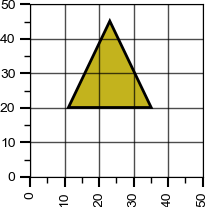
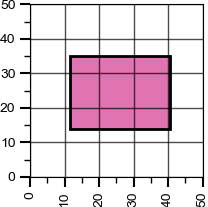
add shape rotation

Changed region(s): [[0.3173, 0.087, 0.8365, 0.6377]]

diff --git a/shape_generator.py b/shape_generator.py
@@ -5,14 +5,15 @@ import random
 import math
 import os
 
-def generate_shape_plot(filename="shape.png"):
+def generate_shape_plot(filename="shape.png", rotate=False):
     """
     Generates an image with a single randomly colored and sized shape (square, rectangle, circle, or triangle)
     on a 50x50 grid. Saves the image and returns the image path and the area of the shape.
-    Shapes are basic (e.g., no rotation for triangles).
+    Shapes can be optionally rotated when rotate=True.
 
     Args:
         filename (str, optional): Name of the output file. Defaults to "shape.png".
+        rotate (bool, optional): Whether to apply random rotation to shapes. Defaults to False.
     """
     # Ensure file exists
     output_dir = os.path.dirname(filename)
@@ -62,10 +63,30 @@ def generate_shape_plot(filename="shape.png"):
 
     if chosen_shape == 'square':
         side = random.uniform(min_shape_dim, max_shape_dim)
-        x = random.uniform(min_coord, max_coord - side)
-        y = random.uniform(min_coord, max_coord - side)
-        square = patches.Rectangle((x, y), side, side, facecolor=color, edgecolor='black', linewidth=2)
-        ax.add_patch(square)
+        if rotate:
+            diagonal = side * math.sqrt(2)
+            safe_margin = diagonal / 2
+            center_x = random.uniform(min_coord + safe_margin, max_coord - safe_margin)
+            center_y = random.uniform(min_coord + safe_margin, max_coord - safe_margin)
+            rotation_angle = random.uniform(-45, 45)
+            # Define corners relative to center
+            half = side / 2
+            corners = np.array([
+                [-half, -half],
+                [half, -half],
+                [half, half],
+                [-half, half]
+            ])
+            theta = np.radians(rotation_angle)
+            rot_matrix = np.array([[np.cos(theta), -np.sin(theta)], [np.sin(theta), np.cos(theta)]])
+            rotated_corners = np.dot(corners, rot_matrix) + np.array([center_x, center_y])
+            square_patch = patches.Polygon(rotated_corners, closed=True, facecolor=color, edgecolor='black', linewidth=2)
+            ax.add_patch(square_patch)
+        else:
+            x = random.uniform(min_coord, max_coord - side)
+            y = random.uniform(min_coord, max_coord - side)
+            square = patches.Rectangle((x, y), side, side, facecolor=color, edgecolor='black', linewidth=2)
+            ax.add_patch(square)
         area = side * side
 
     elif chosen_shape == 'rectangle':
@@ -73,10 +94,31 @@ def generate_shape_plot(filename="shape.png"):
         height = random.uniform(min_shape_dim, max_shape_dim)
         while abs(width - height) < min_shape_dim / 4:
             height = random.uniform(min_shape_dim, max_shape_dim)
-        x = random.uniform(min_coord, max_coord - width)
-        y = random.uniform(min_coord, max_coord - height)
-        rectangle = patches.Rectangle((x, y), width, height, facecolor=color, edgecolor='black', linewidth=2)
-        ax.add_patch(rectangle)
+        if rotate:
+            diagonal = math.sqrt(width**2 + height**2)
+            safe_margin = diagonal / 2
+            center_x = random.uniform(min_coord + safe_margin, max_coord - safe_margin)
+            center_y = random.uniform(min_coord + safe_margin, max_coord - safe_margin)
+            rotation_angle = random.uniform(-45, 45)
+            # Define corners relative to center
+            half_w = width / 2
+            half_h = height / 2
+            corners = np.array([
+                [-half_w, -half_h],
+                [half_w, -half_h],
+                [half_w, half_h],
+                [-half_w, half_h]
+            ])
+            theta = np.radians(rotation_angle)
+            rot_matrix = np.array([[np.cos(theta), -np.sin(theta)], [np.sin(theta), np.cos(theta)]])
+            rotated_corners = np.dot(corners, rot_matrix) + np.array([center_x, center_y])
+            rect_patch = patches.Polygon(rotated_corners, closed=True, facecolor=color, edgecolor='black', linewidth=2)
+            ax.add_patch(rect_patch)
+        else:
+            x = random.uniform(min_coord, max_coord - width)
+            y = random.uniform(min_coord, max_coord - height)
+            rectangle = patches.Rectangle((x, y), width, height, facecolor=color, edgecolor='black', linewidth=2)
+            ax.add_patch(rectangle)
         area = width * height
 
     elif chosen_shape == 'circle':
@@ -90,17 +132,35 @@ def generate_shape_plot(filename="shape.png"):
     elif chosen_shape == 'triangle':
         base = random.uniform(min_shape_dim, max_shape_dim)
         height = random.uniform(min_shape_dim, max_shape_dim)
-        x_start = random.uniform(min_coord, max_coord - base)
-        y_start = random.uniform(min_coord, max_coord - height)
-        p1 = (x_start, y_start)
-        p2 = (x_start + base, y_start)
-        p3 = (x_start + base / 2.0, y_start + height)
-        points = np.array([p1, p2, p3])
-        triangle_patch = patches.Polygon(points, closed=True, facecolor=color, edgecolor='black', linewidth=2)
-        ax.add_patch(triangle_patch)
+        if rotate:
+            # Equilateral triangle for simplicity in margin
+            # The farthest vertex from centroid is max(base, height) * sqrt(3)/3 for equilateral, but for general triangle, use half-diagonal
+            diagonal = math.sqrt(base**2 + height**2)
+            safe_margin = diagonal / 2
+            centroid_x = random.uniform(min_coord + safe_margin, max_coord - safe_margin)
+            centroid_y = random.uniform(min_coord + safe_margin, max_coord - safe_margin)
+            # Points relative to centroid (centered triangle)
+            p1 = (-base/2, -height/2)
+            p2 = (base/2, -height/2)
+            p3 = (0, height/2)
+            points = np.array([p1, p2, p3])
+            rotation_angle = random.uniform(-45, 45)
+            rotation_rad = np.radians(rotation_angle)
+            rot_matrix = np.array([[np.cos(rotation_rad), -np.sin(rotation_rad)], [np.sin(rotation_rad), np.cos(rotation_rad)]])
+            points = np.dot(points, rot_matrix)
+            points = points + np.array([centroid_x, centroid_y])
+            triangle_patch = patches.Polygon(points, closed=True, facecolor=color, edgecolor='black', linewidth=2)
+            ax.add_patch(triangle_patch)
+        else:
+            x_start = random.uniform(min_coord, max_coord - base)
+            y_start = random.uniform(min_coord, max_coord - height)
+            p1 = (x_start, y_start)
+            p2 = (x_start + base, y_start)
+            p3 = (x_start + base / 2.0, y_start + height)
+            points = np.array([p1, p2, p3])
+            triangle_patch = patches.Polygon(points, closed=True, facecolor=color, edgecolor='black', linewidth=2)
+            ax.add_patch(triangle_patch)
         area = 0.5 * base * height
-
-
 
     fig.set_size_inches(img_width / dpi_val, img_height / dpi_val) 
     plt.savefig(filename, dpi=dpi_val, bbox_inches='tight', pad_inches=0)
@@ -112,4 +172,5 @@ def generate_shape_plot(filename="shape.png"):
 if __name__ == '__main__':
     img_path1, area1 = generate_shape_plot()
     print(f"Generated: {img_path1}, Area: {area1:.2f}")
-
+    img_path2, area2 = generate_shape_plot(filename="shape_rotated.png", rotate=True)
+    print(f"Generated rotated: {img_path2}, Area: {area2:.2f}")

diff --git a/datasets.py b/datasets.py
@@ -70,12 +70,13 @@ What is the area of the shape drawn on the plot?
 """
 
 class SingleShapeAreaDataLoader(DataLoader):
-    def __init__(self, dataset_size: int = 50, is_train: bool = True) -> None:
-        super().__init__() # Always generates random times
+    def __init__(self, dataset_size: int = 50, is_train: bool = True, rotate: bool = False) -> None:
+        super().__init__() 
         self.dataset_size = dataset_size
         self.is_train = is_train
         self.prompt = SINGLE_AREA_PROMPT
-        self.filename = "temp_shape.png" # Fixed path for the temporary image
+        self.filename = "temp_shape.png"
+        self.rotate = rotate
         
     def __len__(self) -> int:
         # Return the specified size, mainly relevant for the test set iteration count
@@ -92,7 +93,7 @@ class SingleShapeAreaDataLoader(DataLoader):
         
         self.current_index += 1
 
-        (filepath, area) = generate_shape_plot()        
+        (filepath, area) = generate_shape_plot(rotate=self.rotate)        
 
         return (filepath, area)
 

diff --git a/main.py b/main.py
@@ -362,6 +362,7 @@ def parse_args():
     parser.add_argument("--update_ref_model_iter", type=int, default=200)
     parser.add_argument("--ref_model_mixup_alpha", type=float, default=0.1)
     parser.add_argument("--gradient_accumulation_steps", type=int, default=4)
+    parser.add_argument("--rotate", type=bool, default=False, help="Enable random rotation of shapes generated")
     return parser.parse_args()
 
 
@@ -380,8 +381,8 @@ if __name__ == "__main__":
     
     
     # Create datasets
-    train_dataset = SingleShapeAreaDataLoader(dataset_size=args.num_samples, is_train=True)
-    test_dataset = SingleShapeAreaDataLoader(dataset_size=args.num_samples, is_train=False)
+    train_dataset = SingleShapeAreaDataLoader(dataset_size=args.num_samples, is_train=True, rotate=args.rotate)
+    test_dataset = SingleShapeAreaDataLoader(dataset_size=args.num_samples, is_train=False, rotate=args.rotate)
     
     # Evaluator
     evaluator = SingleShapeEvaluator()
